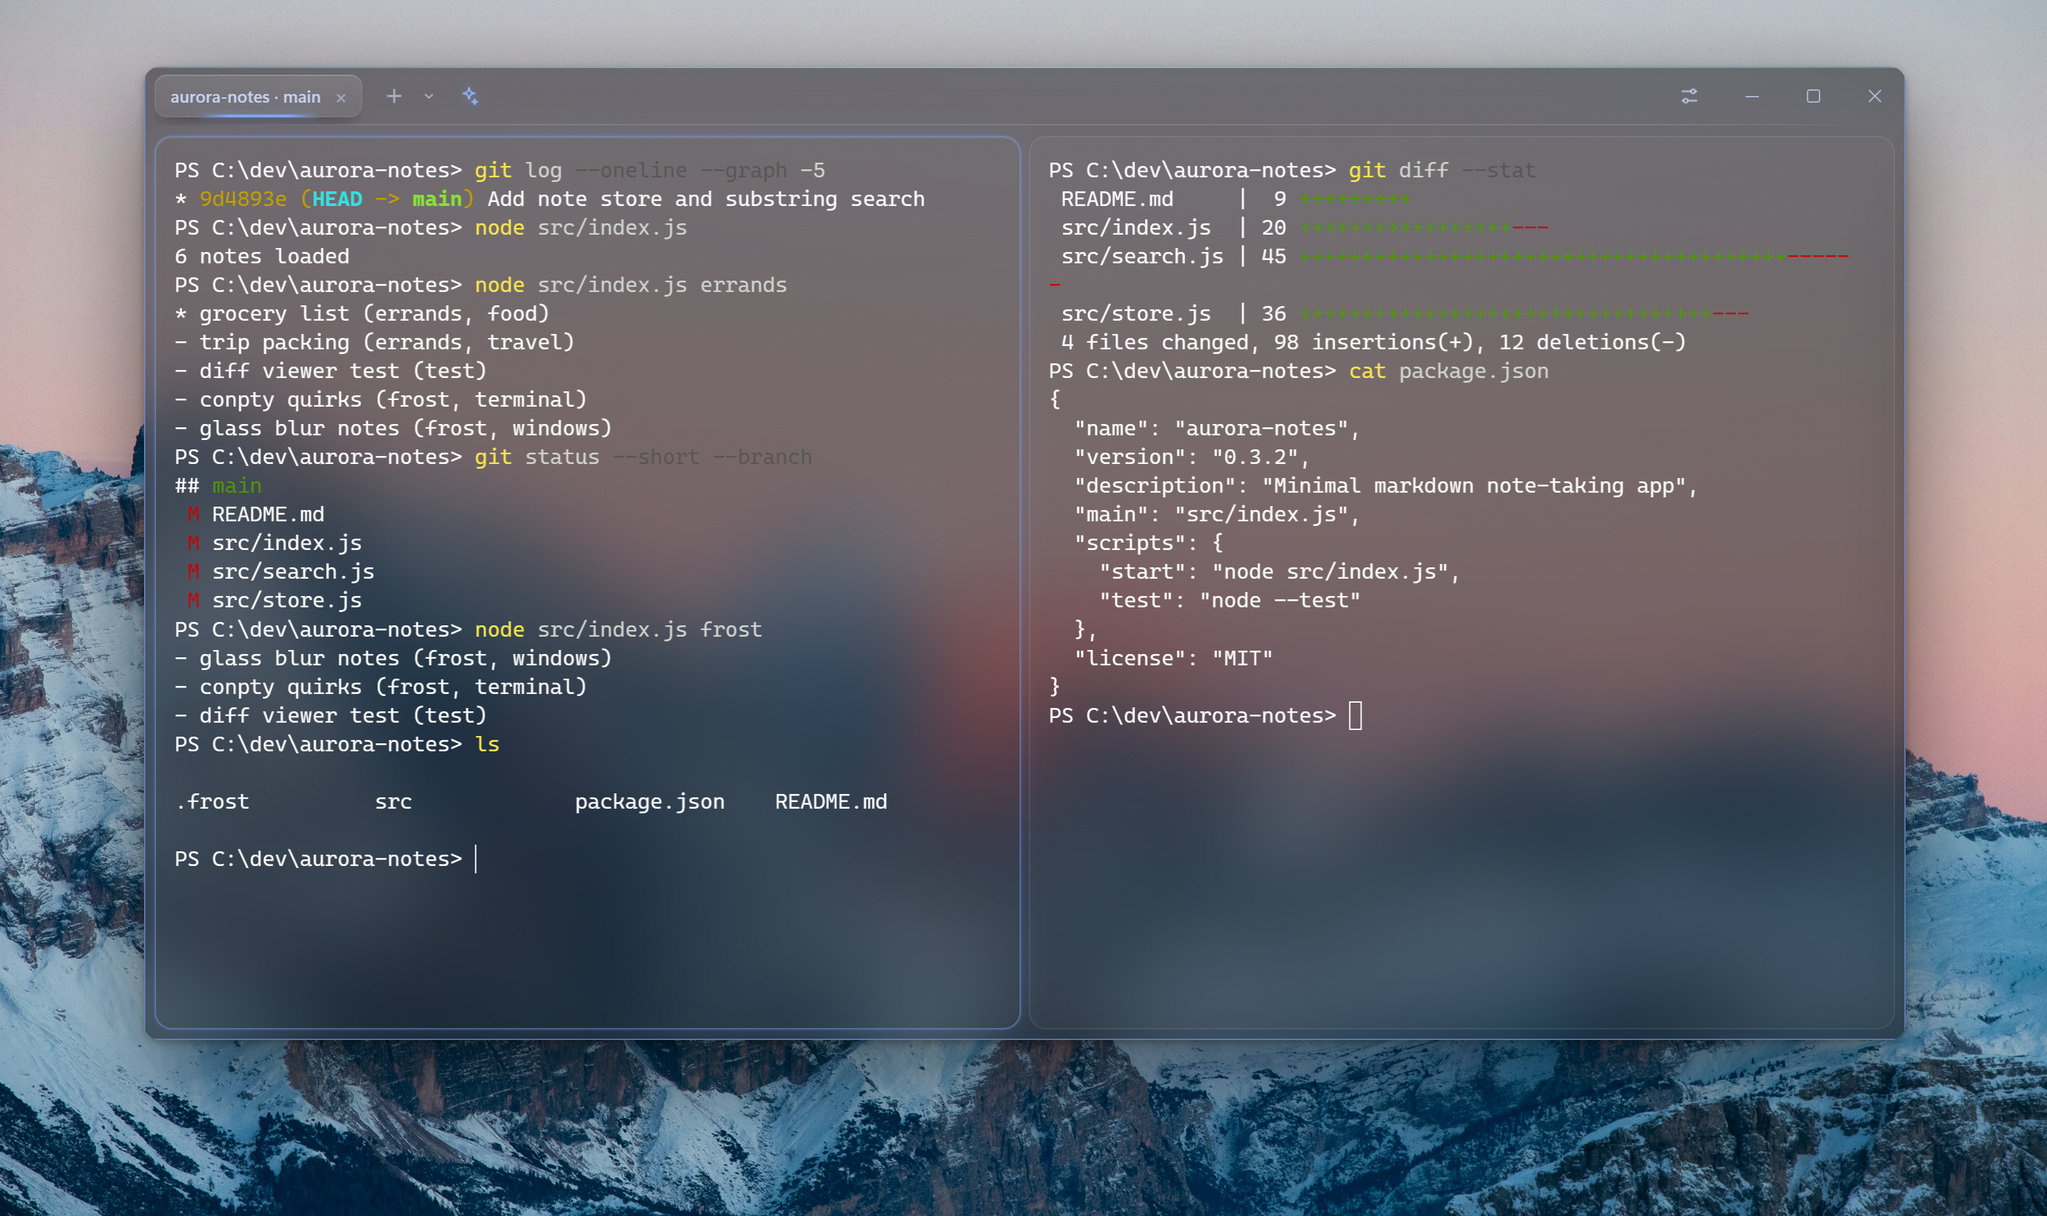
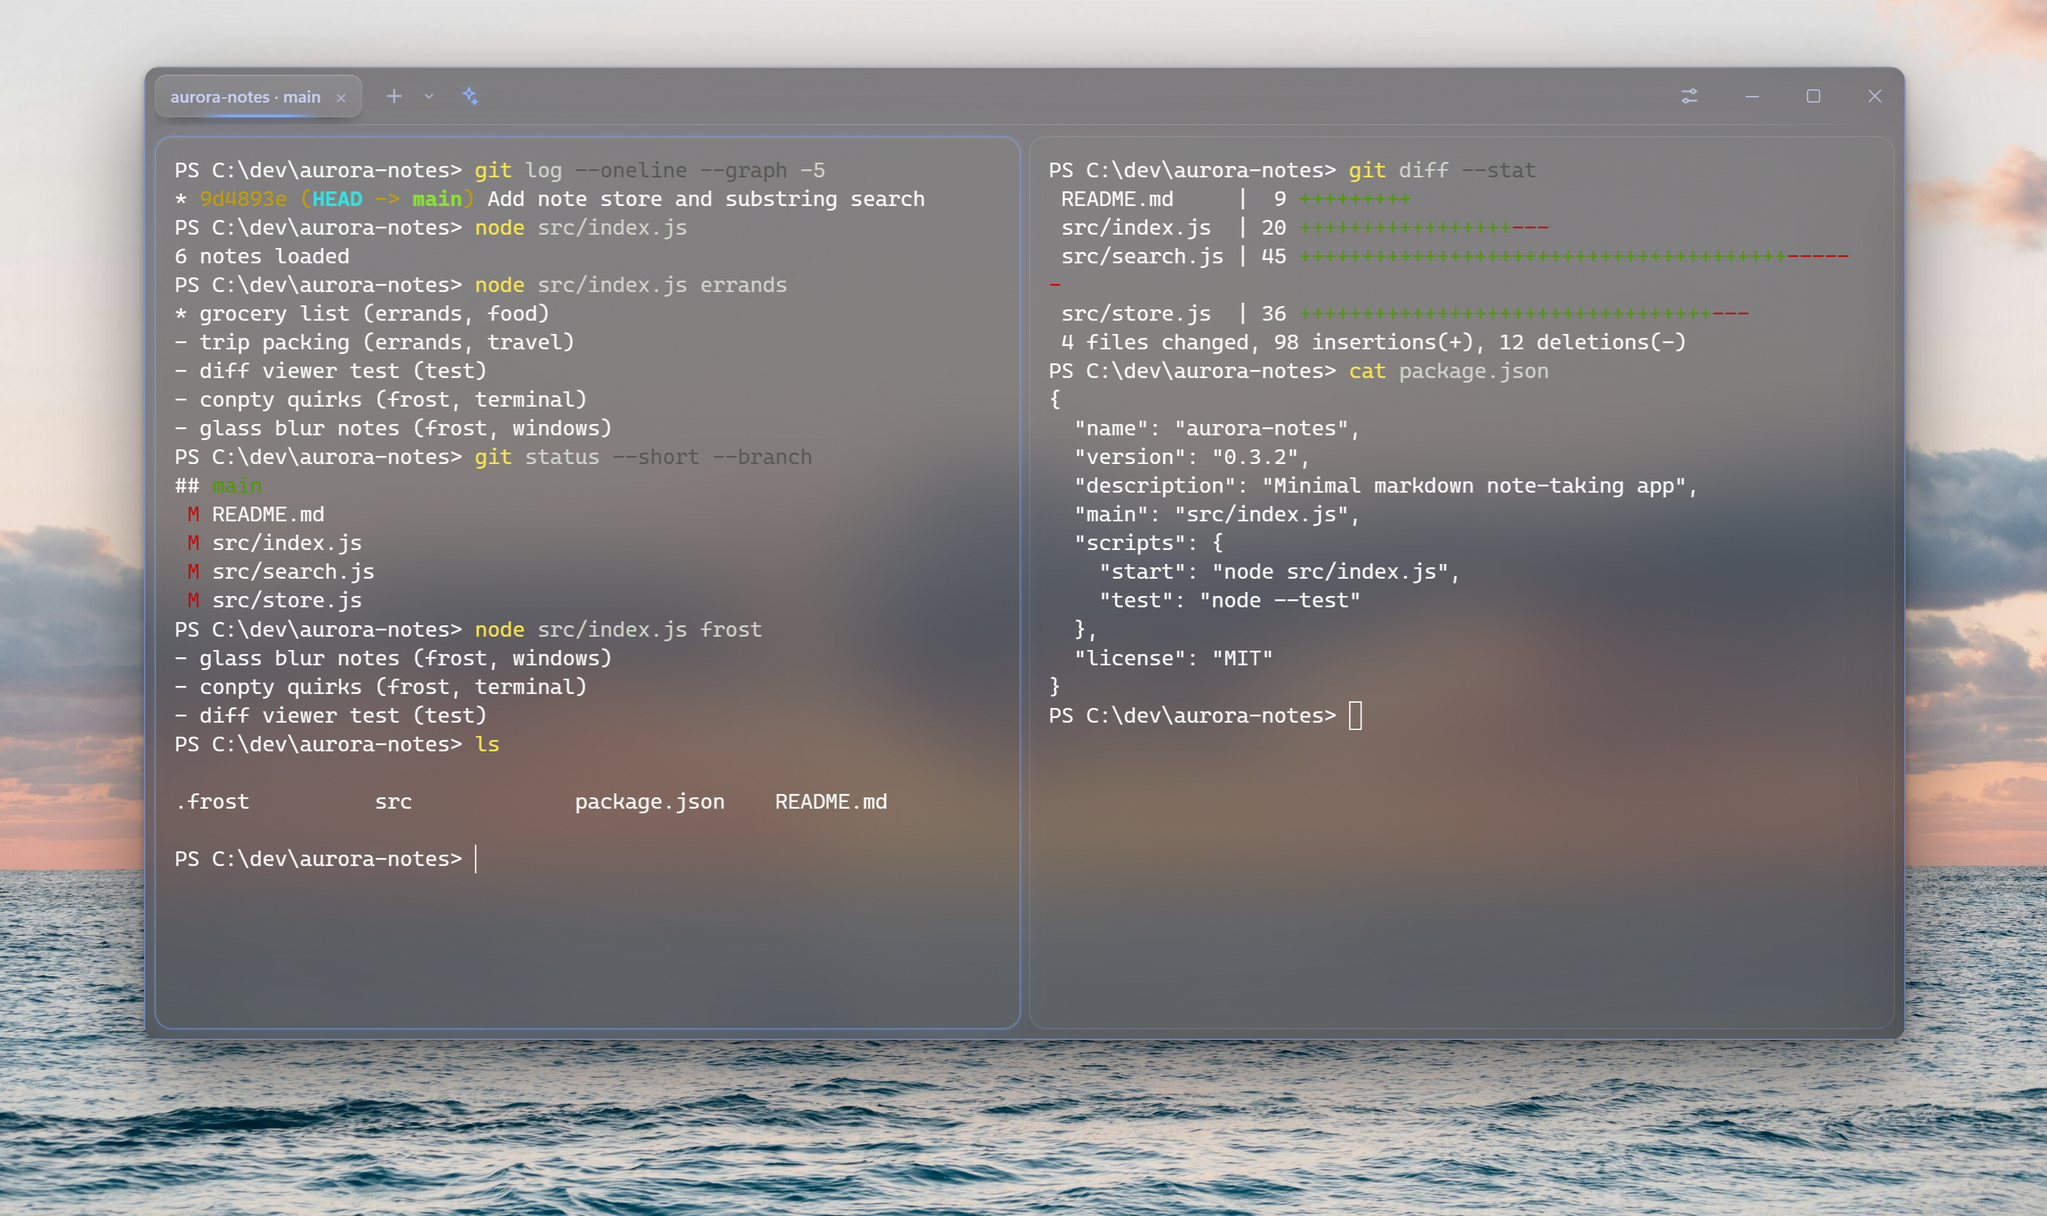
Lead the README with the agent shot and swap its backdrop with the hero
The agent view now opens the README over the mountains; the split-pane
shot moves to the ocean and takes the place of the shell profiles image,
which stays in the guide.

diff --git a/tools/shots/scenarios.js b/tools/shots/scenarios.js
@@ -43,8 +43,8 @@ const waitFor = async (fn, timeout = 30000, step = 250) => {
 module.exports = [
   {
     name: 'screenshot-hero',
-    photo: 'peaks-sunrise',
-    wallpaper: 'alpine',
+    photo: 'ocean-dusk',
+    wallpaper: 'pine',
     // two shells side by side, real git and real program output
     setup: `(async () => {
       ${RUN}
@@ -101,8 +101,8 @@ module.exports = [
     // status and producing a real diff. So this runs `claude` for real and asks
     // it for a small edit in the demo repo.
     name: 'screenshot-agent',
-    photo: 'ocean-dusk',
-    wallpaper: 'pine',
+    photo: 'peaks-sunrise',
+    wallpaper: 'alpine',
     spaces: true,
     sessions: true, // staged demo-repo sessions for the Sessions list
     theme: { autoDetectAgents: true },

diff --git a/README.md b/README.md
@@ -18,7 +18,7 @@
 
 ---
 
-![Split panes over a glass backdrop, tabs showing directory and branch](assets/screenshot-hero.png)
+![Agent mode — live status, terminal, diff watch, and the session's docked shell](assets/screenshot-agent.png)
 
 ## Why Frost
 
@@ -46,7 +46,7 @@ doing while it does it.
   keys, and `theme.json` / `theme.css` that apply the moment you save
 - **Updates itself** quietly, and only installs when you quit
 
-![The shell profile menu, listing detected shells](assets/screenshot-profiles.png)
+![Split panes over a glass backdrop, tabs showing directory and branch](assets/screenshot-hero.png)
 
 ## Agent mode
 
@@ -57,8 +57,6 @@ Run `claude` in any tab and it becomes an agent with live status — working,
 - **A shell per session**, docked under the diff, that stays running while you
   switch between agents
 - **Resume any past session** in one click, or start a new one in any folder
-
-![Agent mode — live status, terminal, diff watch, and the session's docked shell](assets/screenshot-agent.png)
 
 ## Install
 
